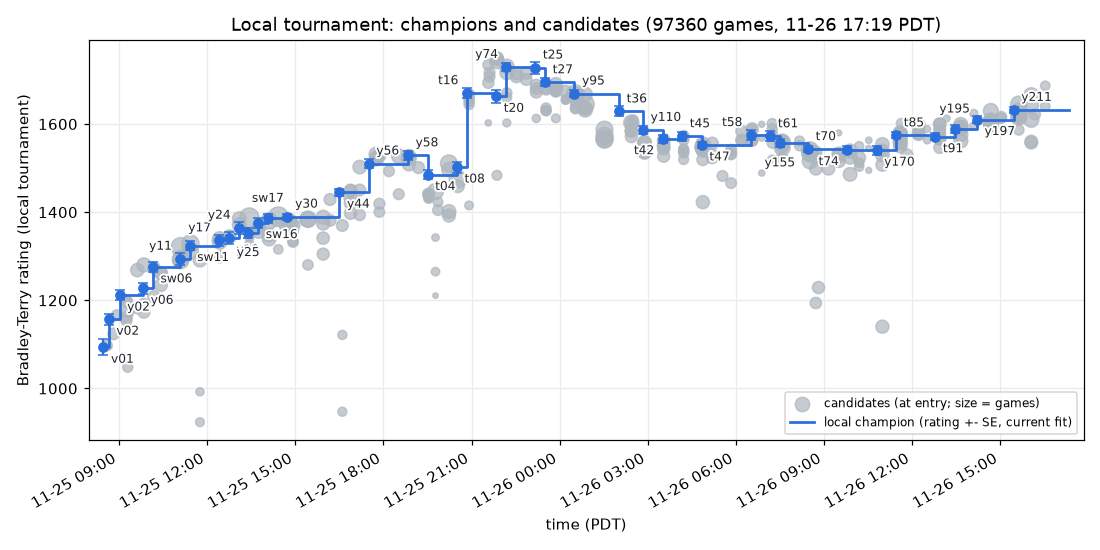
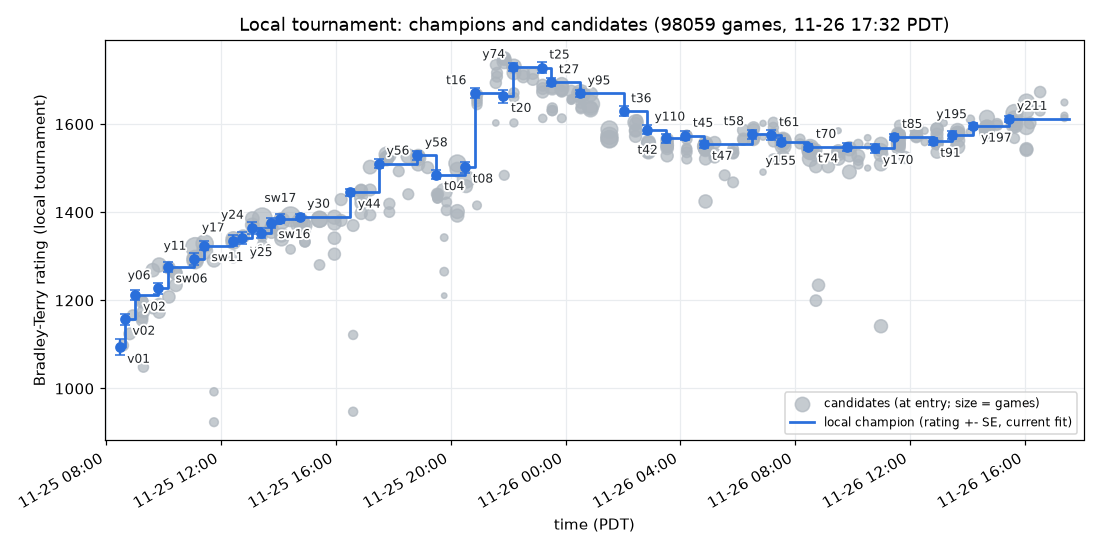
board: flat confirmation fields (the dashboard dropped the nested object: Confirming showed NaN/NaN, owner #49); PROMPTS #49
Claude-Session: https://claude.ai/code/session_01SzziPSCWtjsjju9cnThDf5

diff --git a/tools/board.py b/tools/board.py
@@ -68,11 +68,14 @@ def main(out):
     for r in pool:
         r['replica_ref'] = r['bot'] in refs and not r['replica_record']
         # owner #46: a qualifier in its confirmation window
-        r['confirm'] = None
-        if r['bot'] in confirm and champ_name:
+        # flat fields: the dashboard's datasets do not keep nested objects (owner 17:30: the pill read NaN/NaN)
+        r['confirm'] = r['bot'] in confirm and champ_name is not None
+        r['confirm_games'] = r['confirm_lead'] = r['confirm_se'] = r['confirm_since'] = None
+        r['confirm_need'] = tourney.CONFIRM_GAMES
+        if r['confirm']:
             lead, se, n = tourney.fresh(r['bot'], confirm[r['bot']], champ_name)
-            r['confirm'] = dict(fresh_games=n, need=tourney.CONFIRM_GAMES, fresh_lead=round(lead), fresh_se=round(se),
-                                since_run=confirm[r['bot']])
+            r['confirm_games'], r['confirm_lead'], r['confirm_se'] = n, round(lead), round(se)
+            r['confirm_since'] = confirm[r['bot']]
     status['refs'] = ', '.join(refs)
     status['confirm_games'] = tourney.CONFIRM_GAMES
     champ = open('research/tourney/champion.txt').read().strip()

diff --git a/progress/local-elo.md b/progress/local-elo.md
@@ -1,6 +1,6 @@
 # Local tournament Elo
 
-Bradley-Terry ratings of our own bots in the local tournament (`tools/tourney.py`), all 97360 games in one fit as of 2026-11-26 17:24 PDT, so every point is on the same scale; earlier champions are shown at their current rating, and "Gain" is the rating over the champion it replaced. `tools/tourney.py rank` rewrites this table; `tools/tourney.py chart` also redraws the chart.
+Bradley-Terry ratings of our own bots in the local tournament (`tools/tourney.py`), all 98059 games in one fit as of 2026-11-26 17:34 PDT, so every point is on the same scale; earlier champions are shown at their current rating, and "Gain" is the rating over the champion it replaced. `tools/tourney.py rank` rewrites this table; `tools/tourney.py chart` also redraws the chart.
 
 ![local elo](local-elo.png)
 
@@ -27,23 +27,23 @@ Bradley-Terry ratings of our own bots in the local tournament (`tools/tourney.py
 | 2026-11-25 20:30 | t08 | study 4 2.2 (contested ruins): soldiers skip a ruin with enemy paint in its visible 5x5 (bad for 50 rounds) on t04 | #50 | 1502 +- 13 | +17 | 775 |
 | 2026-11-25 20:50 | t16 | t12 (t08 + study 4 2.1 spawn freeze 8 rounds in 20 below 1000+cost) + study 4 2.4 money-first: builds money until 8 towers then paint while paint towers < n/5; paint first only if none (all towers known) on t08 | #51 | 1670 +- 11 | +168 | 1213 |
 | 2026-11-25 21:50 | t20 | study 4 2.3: splashers weight enemy towers 30 (was 12) in the splash score on t16 | #52 | 1663 +- 15 | -7 | 587 |
-| 2026-11-25 22:10 | y74 | unit audit (owner prompt #15): splash-grid bug fix (enemy tiles never scored) + moppers stop once enemy paint is in mop reach; built on t16 on t20 | #53 | 1729 +- 10 | +67 | 1255 |
+| 2026-11-25 22:10 | y74 | unit audit (owner prompt #15): splash-grid bug fix (enemy tiles never scored) + moppers stop once enemy paint is in mop reach; built on t16 on t20 | #53 | 1730 +- 10 | +67 | 1255 |
 | 2026-11-25 23:10 | t25 | unit audit + top teams' unit mix (616 S / 662 X / 701 M): after r80 paint towers cycle soldier-splasher-mopper; money towers keep S M X M S M on y74 | #54 | 1728 +- 13 | -1 | 680 |
 | 2026-11-25 23:30 | t27 | top teams' splasher-heavy late mix pushed further: paint towers cycle soldier-splasher-splasher-mopper after r80 on t25 | #55 | 1695 +- 9 | -33 | 1554 |
-| 2026-11-26 00:30 | y95 | upgrade spare 1200 (was 800): chips stay for new towers longer on t27 | #56 | 1669 +- 9 | -26 | 1822 |
+| 2026-11-26 00:30 | y95 | upgrade spare 1200 (was 800): chips stay for new towers longer on t27 | #56 | 1670 +- 9 | -25 | 1822 |
 | 2026-11-26 02:01 | t36 | late SRPs (study 4 2.6 / study 3 tactic 7): soldiers without a ruin build SRPs on the x%4==2 y%4==2 lattice from r100 with chips>=1000; splashers avoid repainting SRP secondary tiles on y95 | #57 | 1629 +- 11 | -40 | 977 |
-| 2026-11-26 02:50 | y110 | money towers upgrade only with 2500 chips beyond the cost+spare (was 1000): chips go to new towers and SRPs on t36 | #58 | 1586 +- 10 | -42 | 1260 |
-| 2026-11-26 03:30 | t42 | study 4 3.1 recovery: with every tower known and no money tower left the next ruin is a money tower on y110 | #59 | 1566 +- 10 | -20 | 1332 |
-| 2026-11-26 04:10 | t45 | study 3 tactic 1: after r40 towers spawn only with 1000 chips beyond the unit's cost (no 600-chip window) on t42 | #60 | 1572 +- 10 | +6 | 1226 |
-| 2026-11-26 04:50 | t47 | study 3 tactic 5: a mopper due in the cycle spawns even below the 1000 reserve when an enemy robot is within d2 20 of the tower on t45 | #61 | 1552 +- 7 | -20 | 2398 |
-| 2026-11-26 06:30 | t58 | study 5 2.3: a splasher that has not splashed for 8 rounds (while able to) explores instead of chasing the nearest non-ally tile on t47 | #62 | 1575 +- 11 | +23 | 1087 |
-| 2026-11-26 07:10 | t61 | study 5 2.1 (softened): money towers for builds 1-5; then one more paint tower per 4 towers on t58 | #63 | 1572 +- 11 | -3 | 938 |
-| 2026-11-26 07:30 | y155 | study 5 2.1 tuned: money towers for builds 1-6; then one more paint tower per 4 towers on t61 | #64 | 1556 +- 9 | -16 | 1615 |
-| 2026-11-26 08:27 | t70 | y155 + splashers weight enemy towers 30 (t68) + 2000+ chips makes the next tower a paint tower (y159) on y155 | #65 | 1543 +- 7 | -13 | 2530 |
-| 2026-11-26 09:47 | t74 | moppers weight enemy paint near ruins 40 (study 6 2.1c) on t70 | #66 | 1542 +- 8 | -1 | 1768 |
-| 2026-11-26 10:47 | y170 | soldiers make the next tower a paint tower at 1500+ chips (t63 tuning; was 2000) on t74 | #67 | 1541 +- 10 | -1 | 1262 |
-| 2026-11-26 11:27 | t85 | study 6 2.2 ruin denial from where the soldier stands: a soldier with no ruin paints empty tiles of a ruin the enemy is building; without walking to it on y170 | #68 | 1574 +- 7 | +34 | 2556 |
-| 2026-11-26 12:47 | t91 | study 7 2.5: moppers ignore ruins under enemy towers when weighting ruin paint on t85 | #69 | 1571 +- 8 | -3 | 1952 |
-| 2026-11-26 13:27 | y195 | study 7 2.1a: explore unseen tiles first; up to 16 random draws on t91 | #70 | 1588 +- 9 | +17 | 1349 |
-| 2026-11-26 14:12 | y197 | ruin denial stops at 2 of our tiles (tuning of study 6 2.2) on y195 | #71 | 1610 +- 7 | +22 | 2235 |
-| 2026-11-26 15:27 | y211 | study 7 2.1a tuned: up to 128 random draws for an unseen explore target (was 16) on y197 | #72 | 1632 +- 7 | +22 | 2571 |
+| 2026-11-26 02:50 | y110 | money towers upgrade only with 2500 chips beyond the cost+spare (was 1000): chips go to new towers and SRPs on t36 | #58 | 1587 +- 10 | -42 | 1260 |
+| 2026-11-26 03:30 | t42 | study 4 3.1 recovery: with every tower known and no money tower left the next ruin is a money tower on y110 | #59 | 1568 +- 10 | -20 | 1332 |
+| 2026-11-26 04:10 | t45 | study 3 tactic 1: after r40 towers spawn only with 1000 chips beyond the unit's cost (no 600-chip window) on t42 | #60 | 1573 +- 10 | +6 | 1226 |
+| 2026-11-26 04:50 | t47 | study 3 tactic 5: a mopper due in the cycle spawns even below the 1000 reserve when an enemy robot is within d2 20 of the tower on t45 | #61 | 1554 +- 7 | -20 | 2398 |
+| 2026-11-26 06:30 | t58 | study 5 2.3: a splasher that has not splashed for 8 rounds (while able to) explores instead of chasing the nearest non-ally tile on t47 | #62 | 1577 +- 11 | +23 | 1087 |
+| 2026-11-26 07:10 | t61 | study 5 2.1 (softened): money towers for builds 1-5; then one more paint tower per 4 towers on t58 | #63 | 1575 +- 11 | -2 | 938 |
+| 2026-11-26 07:30 | y155 | study 5 2.1 tuned: money towers for builds 1-6; then one more paint tower per 4 towers on t61 | #64 | 1560 +- 9 | -15 | 1615 |
+| 2026-11-26 08:27 | t70 | y155 + splashers weight enemy towers 30 (t68) + 2000+ chips makes the next tower a paint tower (y159) on y155 | #65 | 1548 +- 7 | -12 | 2530 |
+| 2026-11-26 09:47 | t74 | moppers weight enemy paint near ruins 40 (study 6 2.1c) on t70 | #66 | 1548 +- 8 | -0 | 1828 |
+| 2026-11-26 10:47 | y170 | soldiers make the next tower a paint tower at 1500+ chips (t63 tuning; was 2000) on t74 | #67 | 1545 +- 10 | -3 | 1328 |
+| 2026-11-26 11:27 | t85 | study 6 2.2 ruin denial from where the soldier stands: a soldier with no ruin paints empty tiles of a ruin the enemy is building; without walking to it on y170 | #68 | 1571 +- 7 | +26 | 2556 |
+| 2026-11-26 12:47 | t91 | study 7 2.5: moppers ignore ruins under enemy towers when weighting ruin paint on t85 | #69 | 1561 +- 8 | -10 | 1999 |
+| 2026-11-26 13:27 | y195 | study 7 2.1a: explore unseen tiles first; up to 16 random draws on t91 | #70 | 1576 +- 9 | +15 | 1349 |
+| 2026-11-26 14:12 | y197 | ruin denial stops at 2 of our tiles (tuning of study 6 2.2) on y195 | #71 | 1595 +- 7 | +20 | 2235 |
+| 2026-11-26 15:27 | y211 | study 7 2.1a tuned: up to 128 random draws for an unseen explore target (was 16) on y197 | #72 | 1612 +- 7 | +16 | 3075 |

diff --git a/PROMPTS.md b/PROMPTS.md
@@ -170,3 +170,6 @@ I'm having second thoughts on the amount of games you want to allocate to the "v
 
 ## #48 (2026-11-26 17:24 PDT)
 I'm good with your option 3, as stated.  If the anomalous dip in the delta Elo chart is truly caused by the winner's curse, this should alleviate that.  Let's see if it does
+
+## #49 (2026-11-26 17:29 PDT)
+There's an error in the Confirming status.  It's showing NaN/NaN instead of 0/150
